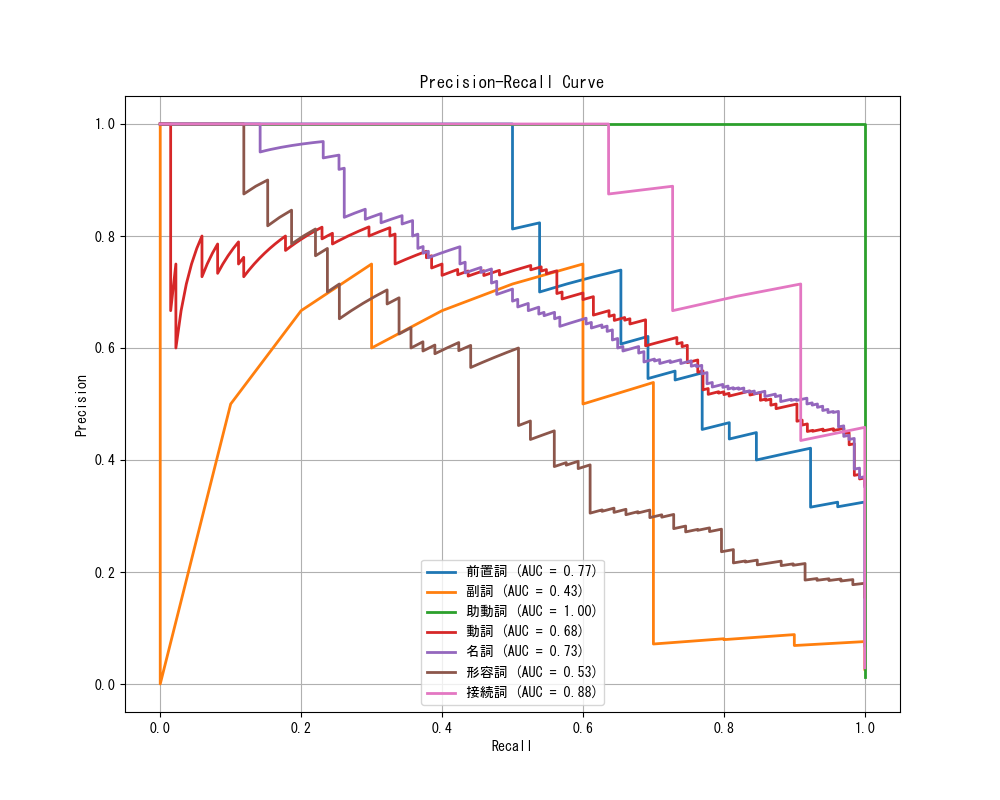
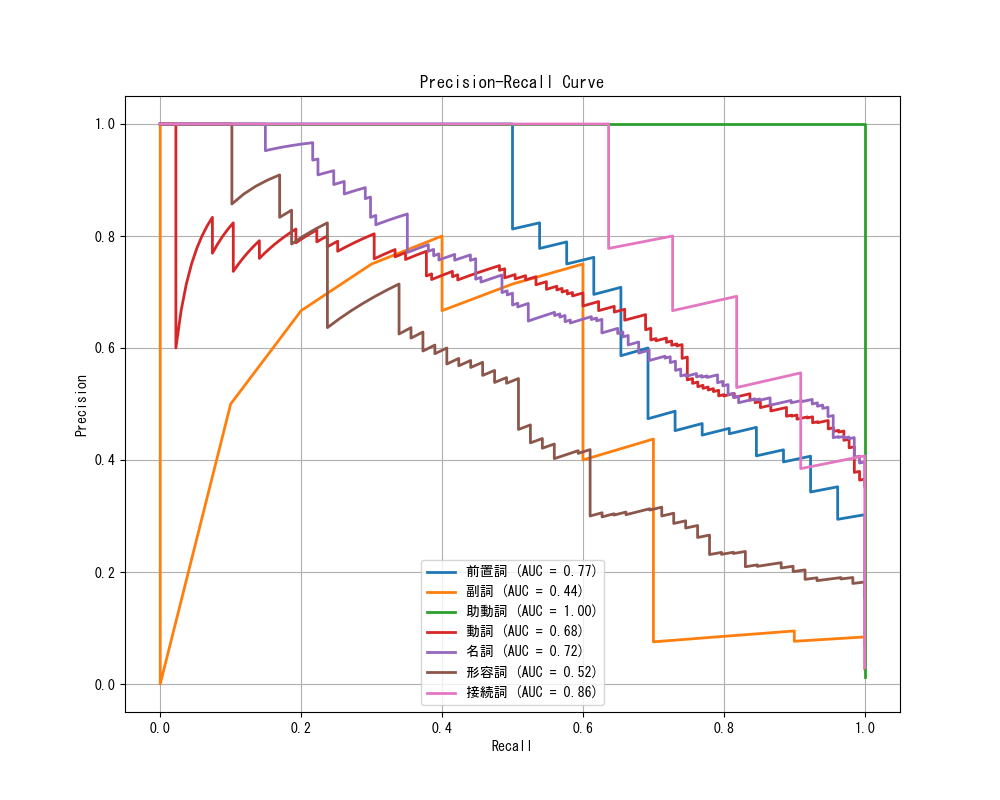
学習モデルの追加

diff --git a/english_pos_ml/src/train.py b/english_pos_ml/src/train.py
@@ -3,11 +3,9 @@ from sklearn.model_selection import train_test_split
 from sklearn.feature_extraction.text import TfidfVectorizer
 from sklearn.svm import LinearSVC
 from sklearn.linear_model import LogisticRegression
-from sklearn.ensemble import VotingClassifier, RandomForestClassifier, ExtraTreesClassifier
+from sklearn.ensemble import VotingClassifier, RandomForestClassifier
 from sklearn.pipeline import Pipeline, FeatureUnion
-from sklearn.preprocessing import FunctionTransformer
 from sklearn.calibration import CalibratedClassifierCV
-from sklearn.naive_bayes import MultinomialNB
 from sklearn.neural_network import MLPClassifier
 from sklearn.linear_model import SGDClassifier
 from sklearn.neighbors import KNeighborsClassifier
@@ -79,18 +77,13 @@ def train_model(df):
     clf_lr = LogisticRegression(class_weight='balanced', random_state=config.RANDOM_STATE, max_iter=2000)
     clf_rf = RandomForestClassifier(class_weight='balanced', random_state=config.RANDOM_STATE, n_estimators=200)
     
-    # 追加モデル
-    clf_nb = MultinomialNB()
+    # ベースモデル（追加）
     clf_mlp = MLPClassifier(hidden_layer_sizes=(100,), max_iter=1000, random_state=config.RANDOM_STATE)
     
-    # SGDClassifierは確率出力のためにloss='log_loss'またはCalibratedClassifierCVが必要
-    sgd = SGDClassifier(loss='log_loss', class_weight='balanced', random_state=config.RANDOM_STATE)
-    clf_sgd = sgd
+    # SGDClassifierは確率出力のためにloss='log_loss'が必要
+    clf_sgd = SGDClassifier(loss='log_loss', class_weight='balanced', random_state=config.RANDOM_STATE)
     
     clf_knn = KNeighborsClassifier(n_neighbors=5)
-    
-    # Extra Treesも追加（多様性のため）
-    clf_et = ExtraTreesClassifier(class_weight='balanced', random_state=config.RANDOM_STATE, n_estimators=200)
     
     # Voting (多数決) -> soft voting
     voting_clf = VotingClassifier(
@@ -98,11 +91,9 @@ def train_model(df):
             ('svc', clf_svc), 
             ('lr', clf_lr), 
             ('rf', clf_rf),
-            ('nb', clf_nb),
             ('mlp', clf_mlp),
             ('sgd', clf_sgd),
-            ('knn', clf_knn),
-            ('et', clf_et)
+            ('knn', clf_knn)
         ],
         voting='soft'
     )

diff --git a/english_pos_ml/report/models.md b/english_pos_ml/report/models.md
@@ -1,0 +1,36 @@
+# モデルアルゴリズムの解説
+
+現在のシステムで採用しているアンサンブル学習（VotingClassifier）を構成する6つのモデルについて、それぞれの特徴と役割を解説します。
+
+---
+
+## 1. LinearSVC (線形サポートベクターマシン)
+- **特徴**: テキスト分類において非常に強力なモデルです。データを分けるための最適な境界線を学習します。
+- **役割**: 文字パターン（TF-IDF）から、品詞を分けるための「決定的な境界」を見つけるのが得意です。
+- **補足**: `CalibratedClassifierCV` を使用することで、予測の確信度（確率）を出力できるようにしています。
+
+## 2. LogisticRegression (ロジスティック回帰)
+- **特徴**: 統計学に基づいた、非常に安定感のある定番の分類モデルです。
+- **役割**: 各特徴量（語尾のパターンや単語長など）がどの程度特定の品詞に寄与しているかをバランスよく学習します。アンサンブルにおける「標準的な判断」を提供します。
+
+## 3. RandomForestClassifier (ランダムフォレスト)
+- **特徴**: 多数の決定木を作成し、その合議制で最終決定を下すアンサンブルモデルです。
+- **役割**: 「単語が短い、かつ末尾が -y である」といった、複雑な条件分岐の組み合わせ（非線形な関係）を捉えるのが得意です。
+
+## 4. MLPClassifier (ニューラルネットワーク)
+- **特徴**: 多層パーセプトロンと呼ばれる、ディープラーニングの基礎となるモデルです。
+- **役割**: 他のモデルでは見落とされるような、スペルと品詞の間の「抽象的で複雑な関係性」を多層構造で学習します。
+
+## 5. SGDClassifier (確率的勾配降下法)
+- **特徴**: 学習が非常に高速で、大規模データにも対応可能なモデルです。
+- **役割**: `log_loss` 設定を使用し、他のモデルとは異なる学習アルゴリズム（逐次的な重み更新）を採用することで、アンサンブル全体に予測の「多様性」をもたらします。
+
+## 6. KNeighborsClassifier (k-近傍法)
+- **特徴**: 「綴りが似ている単語は同じ品詞である可能性が高い」という直感に基づき、近接するデータから予測します。
+- **役割**: 規則性よりも、既存の単語（学習データ）との「見た目の類似性」を重視した判定を担当します。
+
+---
+
+## アンサンブルの目的
+それぞれのモデルには得意・不得意がありますが、これらを `VotingClassifier` (Soft Voting) で統合することで、**個々のモデルの誤判断を他のモデルがカバーする**堅牢な構成になっています。
+これにより、特定のアルゴリズムに偏らない、安定した品詞推定を実現しています。

diff --git a/english_pos_ml/report/architecture.md b/english_pos_ml/report/architecture.md
@@ -29,15 +29,16 @@
 ## 3. モデルアルゴリズム（AIの構成）
 複数のモデルを組み合わせる「アンサンブル学習（多数決方式）」を採用しています。
 
-- **ベースモデル（計8種類）**:
+- **ベースモデル（計6種類）**:
   - **LinearSVC**: テキスト分類に強い線形SVM（`CalibratedClassifierCV` で確率対応）。
   - **LogisticRegression**: 一般的で汎用性の高い分類。
   - **RandomForestClassifier**: 決定木を多数組み合わせたモデル。
   - **MLPClassifier**: ニューラルネットワーク。複雑な非線形パターンの学習を担当。
-  - **MultinomialNB**: テキスト特徴量（TF-IDF）と相性の良い確率モデル。
   - **SGDClassifier**: 確率的勾配降下法による高速で多様な学習。
   - **KNeighborsClassifier**: スペルの類似性（近傍）に基づく予測。
-  - **ExtraTreesClassifier**: ランダム性を高めた決定木アンサンブル。
+  
+  > 各モデルのより詳細な特徴と役割については、[models.md](models.md) を参照してください。
+
 - **統合手法**:
   - **Voting (Soft)**: 各モデルの予測確率を平均し、最も高いクラスを採用。多様なアルゴリズムの結果を統合することで、個々のモデルのエラーを打ち消し精度を安定させています。
 
